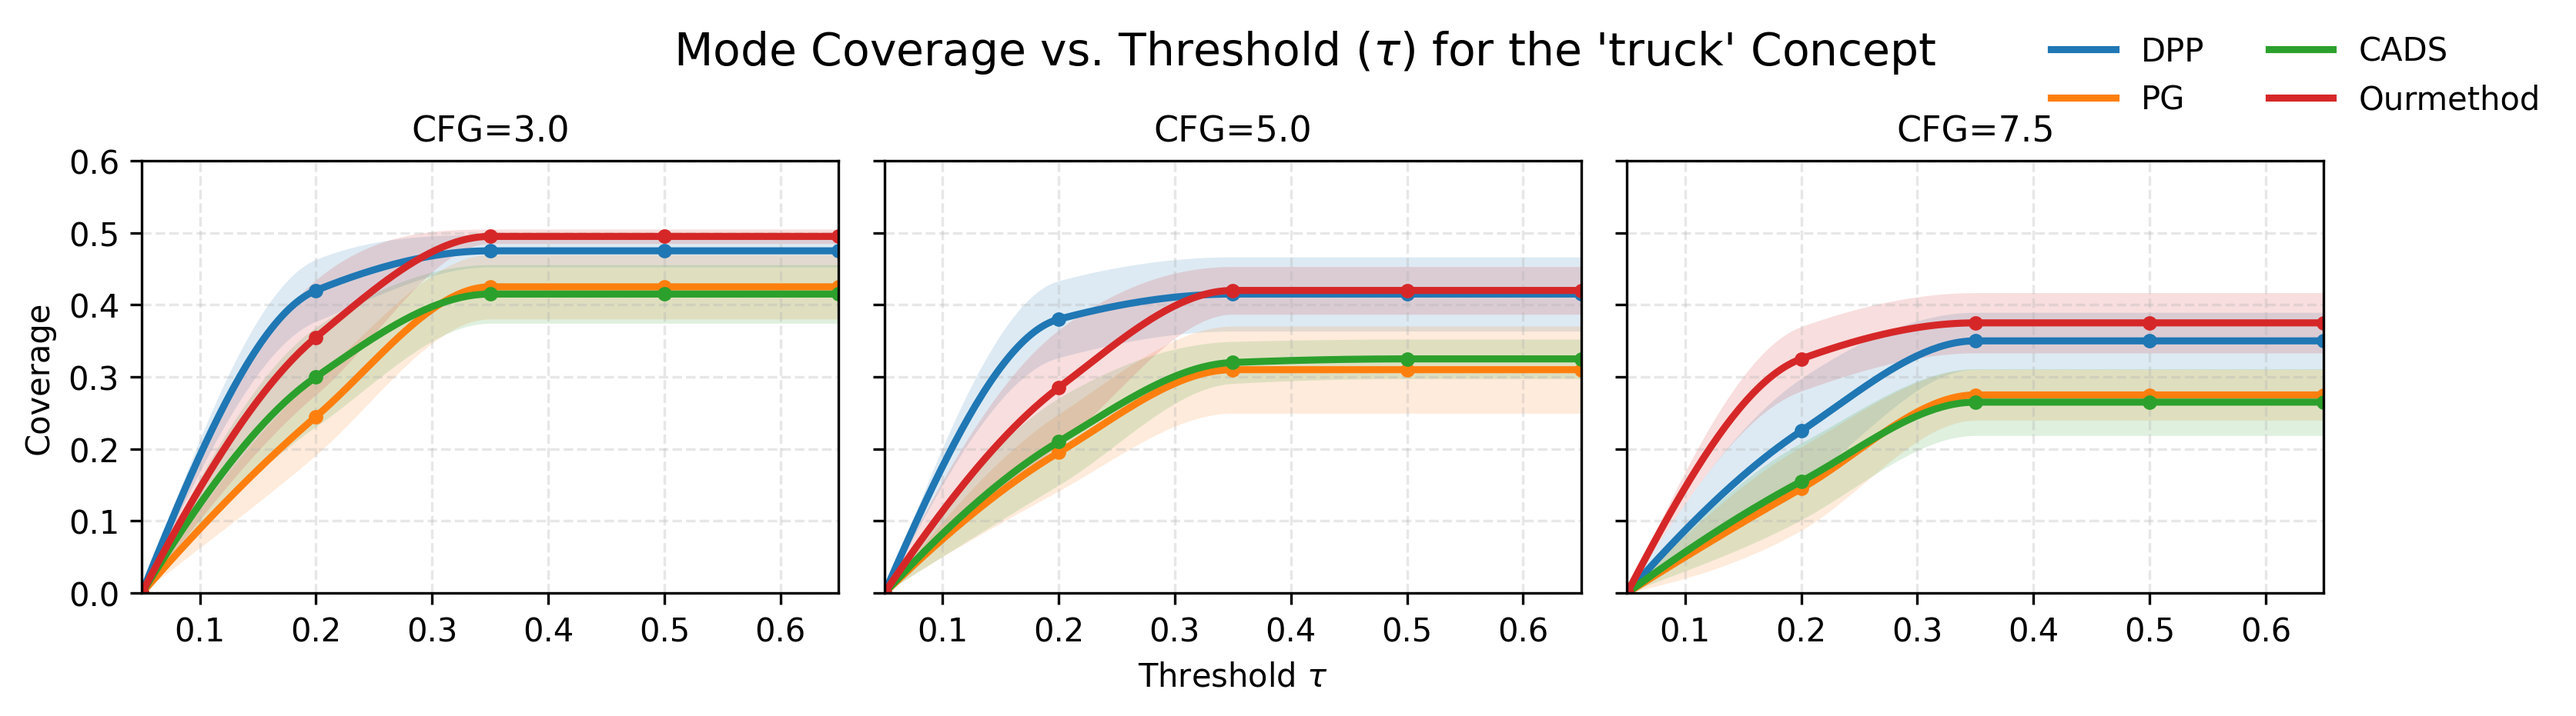
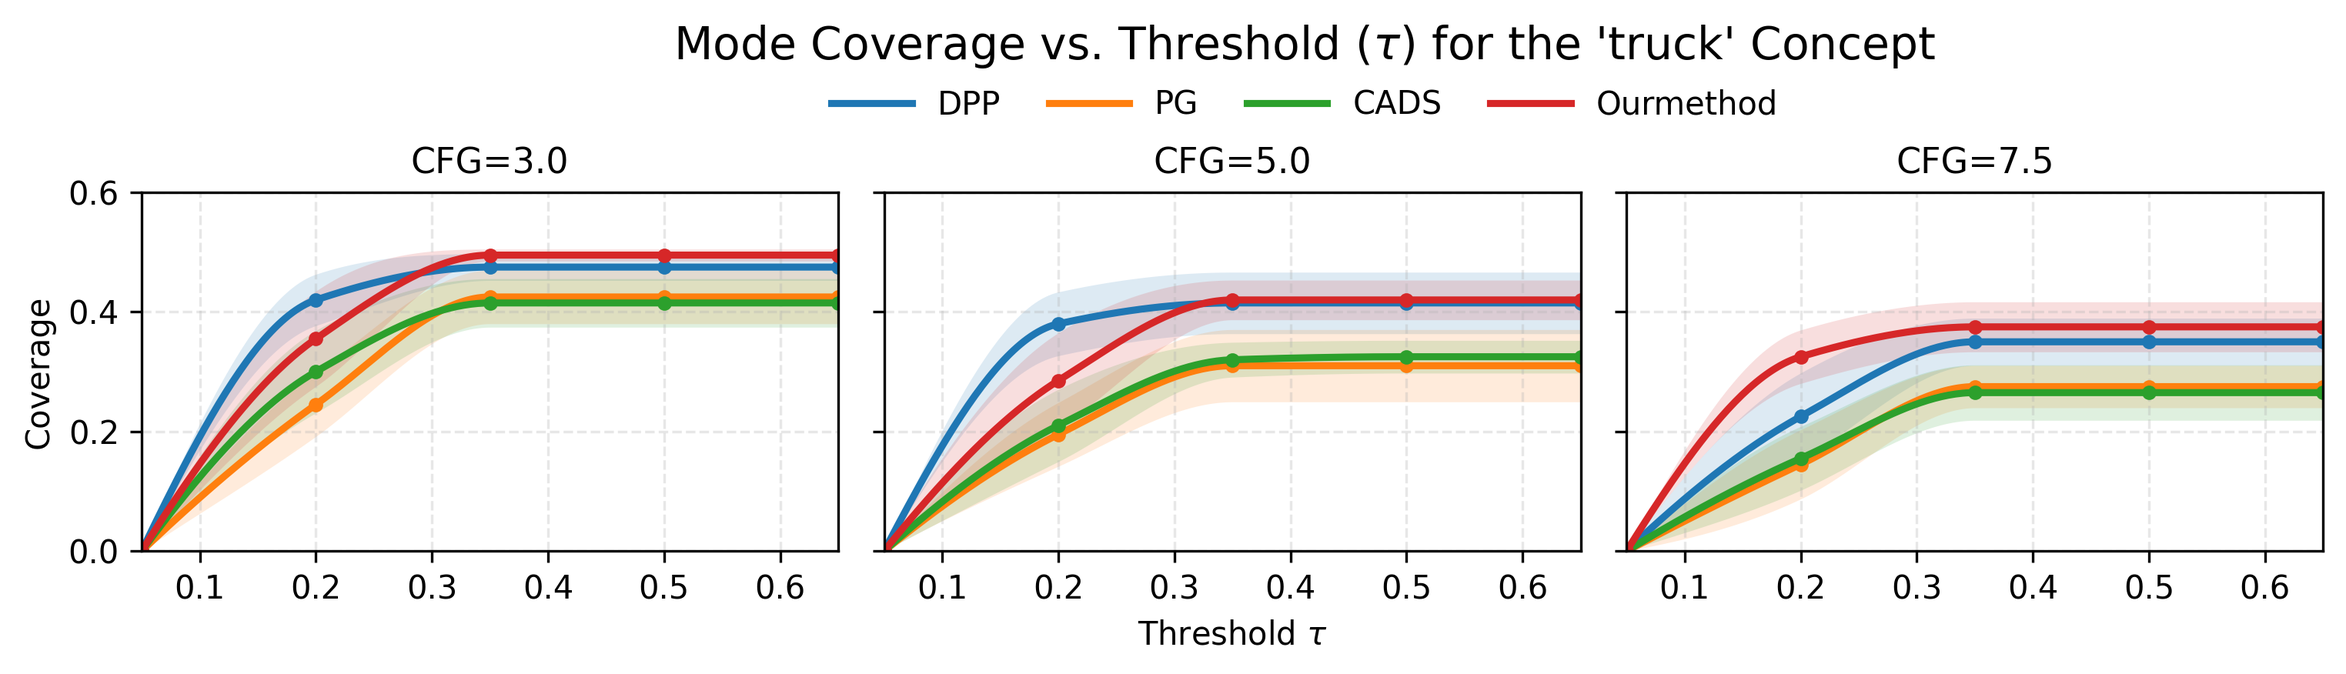
update pic code

diff --git a/experiments/plot_exp3_cover.py b/experiments/plot_exp3_cover.py
@@ -187,21 +187,27 @@ def plot_cov_tau_panel(
     axes[0].set_ylabel("Coverage")
 
     legend_methods = [m for m in methods if m in plotted_methods] or methods
+
+    # Title higher
+    if title is None:
+        title = f"Mode Coverage vs. Threshold ($\\tau$) for the '{concept}' Concept"
+    fig.suptitle(title, y=0.90, fontsize=14)
+
+    # Legend: single row centered between title and subplots
     fig.legend(
         handles=[plt.Line2D([0], [0], color=color_map[m], lw=2.2) for m in legend_methods],
         labels=[_norm_label(m) for m in legend_methods],
-        loc=legend_loc,
-        ncol=2,
+        loc="upper center",
+        bbox_to_anchor=(0.5, 0.85),     # between suptitle (0.99) and axes
+        ncol=len(legend_methods),        # one row
         frameon=False,
-        bbox_to_anchor=(0.98, 0.98),
-        bbox_transform=fig.transFigure,
+        columnspacing=1.5,
+        handlelength=2.5,
     )
 
-    if title is None:
-        title = f"Mode Coverage vs. Threshold ($\\tau$) for the '{concept}' Concept"
-    fig.suptitle(title, y=0.95, fontsize=14)
+    # Leave headroom for legend/title
+    fig.tight_layout(rect=[0, 0, 0.90, 0.90])
 
-    fig.tight_layout(rect=[0, 0, 0.9, 1])
 
     if save_path:
         Path(save_path).parent.mkdir(parents=True, exist_ok=True)
